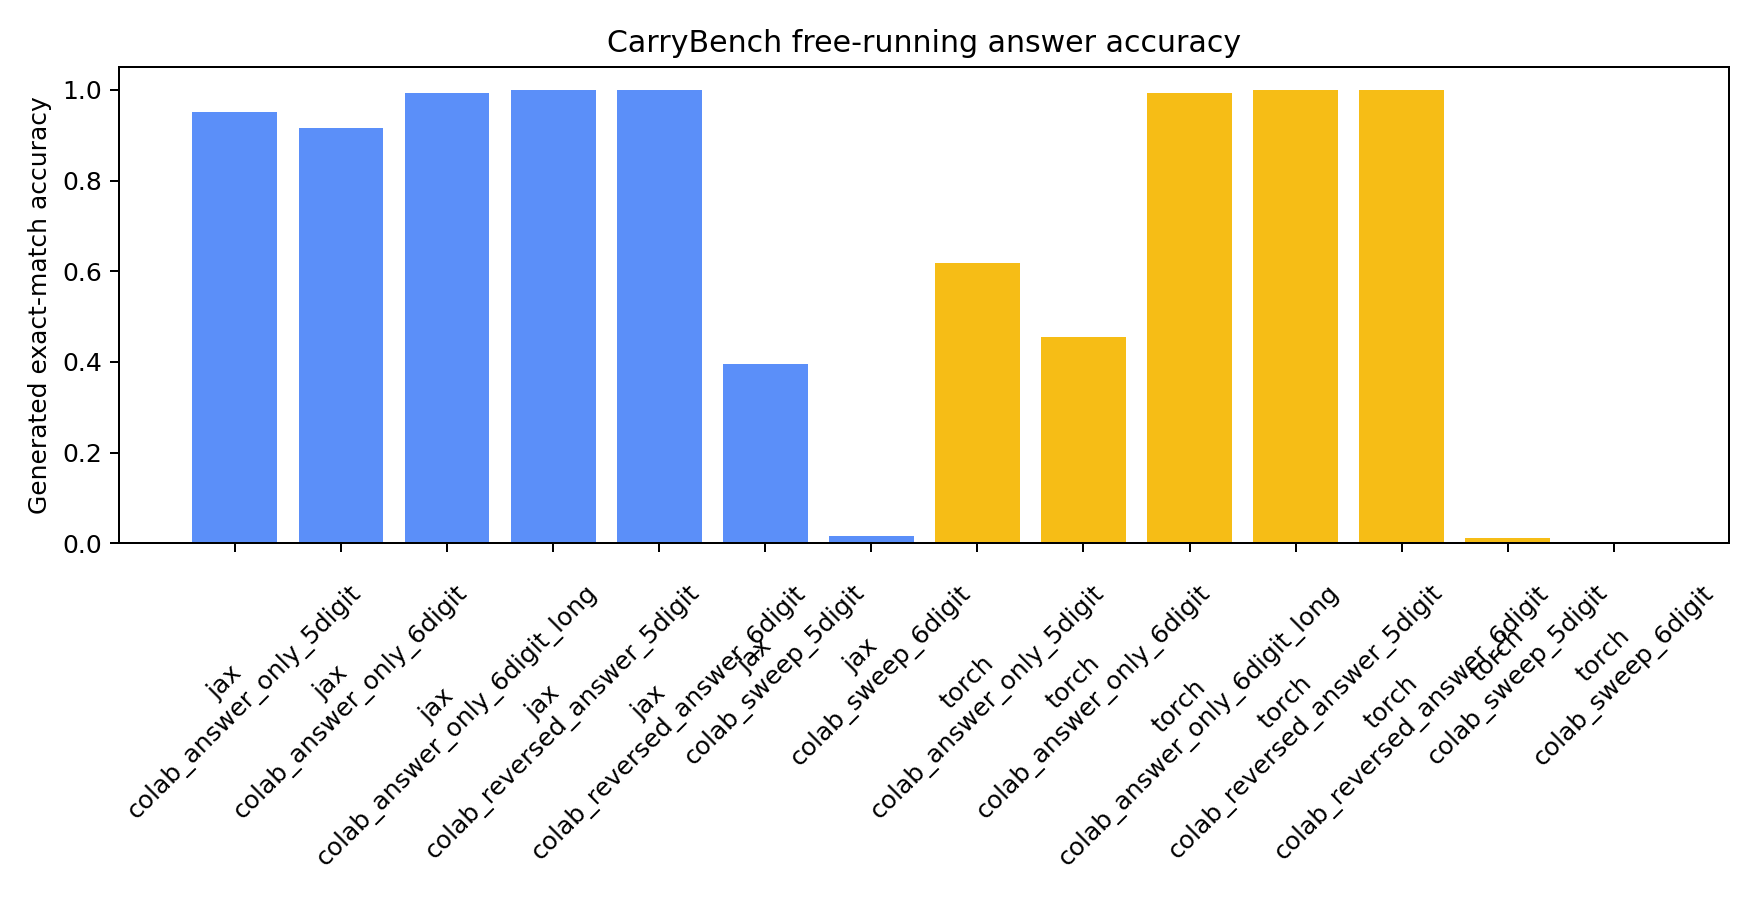
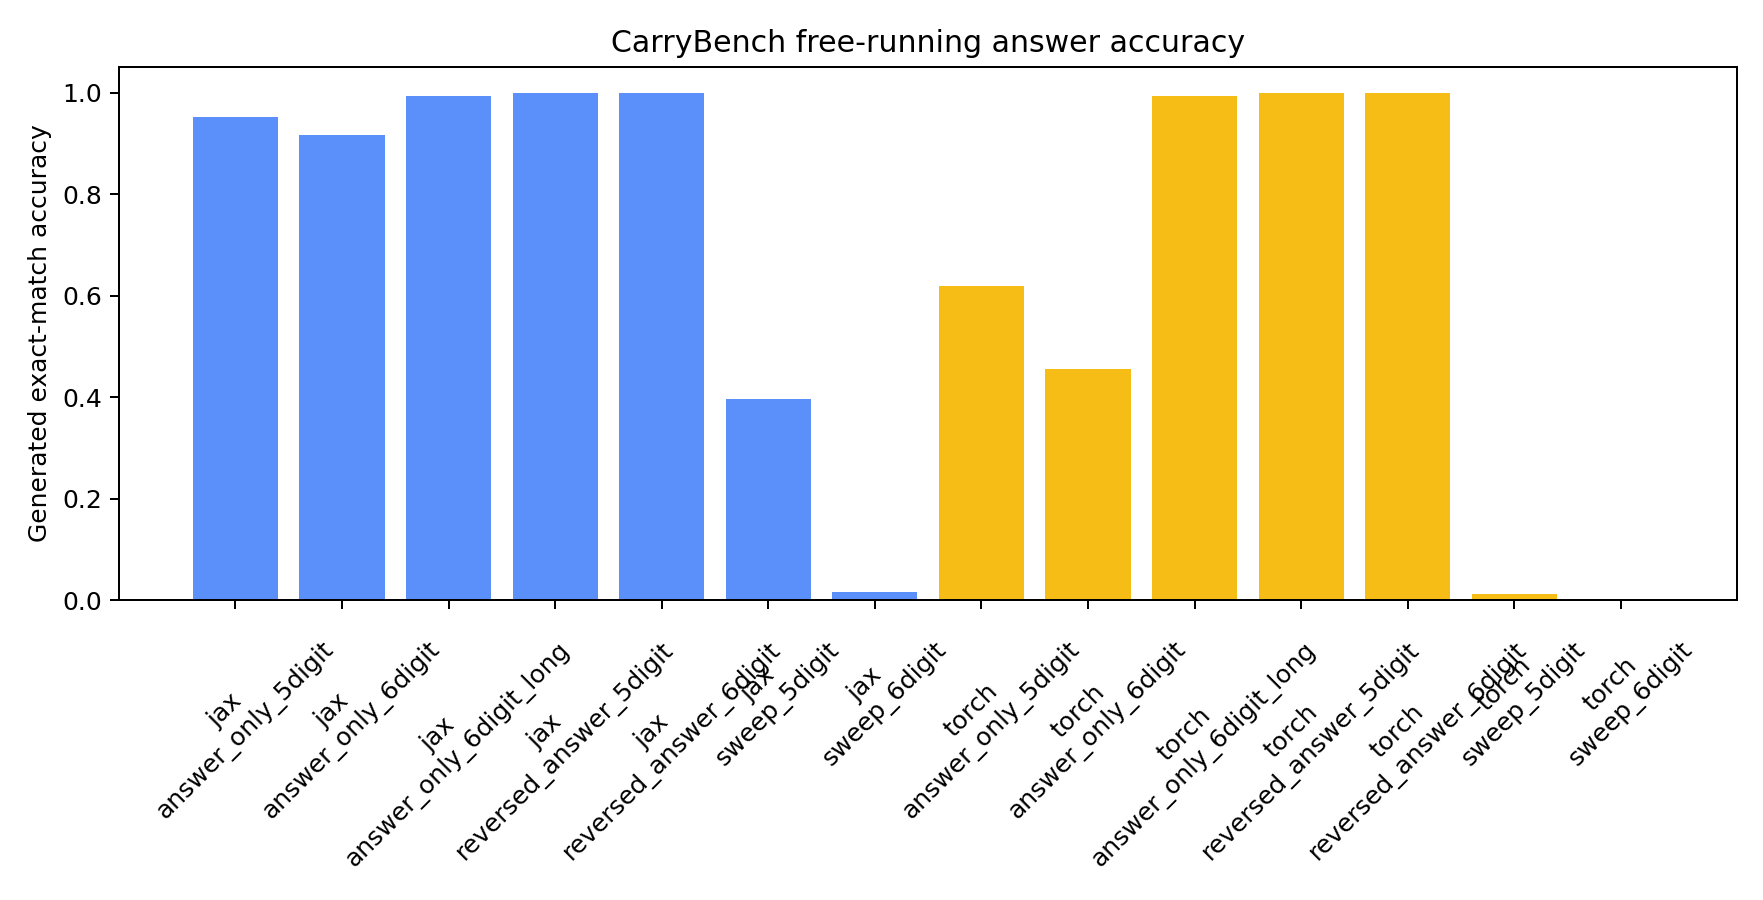
Drop colab_ prefix from accuracy plot x-axis labels

diff --git a/src/plot_results.py b/src/plot_results.py
@@ -20,7 +20,9 @@ def plot_accuracy(results_dir: Path, output_dir: Path) -> None:
     rows = [row for row in rows if row.get(metric)]
     if not rows:
         return
-    labels = [f"{row['backend']}\n{row['config_family']}" for row in rows]
+    labels = [
+        f"{row['backend']}\n{row['config_family'].removeprefix('colab_')}" for row in rows
+    ]
     values = [float(row[metric]) for row in rows]
     fig, ax = plt.subplots(figsize=(max(8, len(rows) * 0.7), 5))
     ax.bar(labels, values, color=["#5b8ff9" if row["backend"] == "jax" else "#f6bd16" for row in rows])